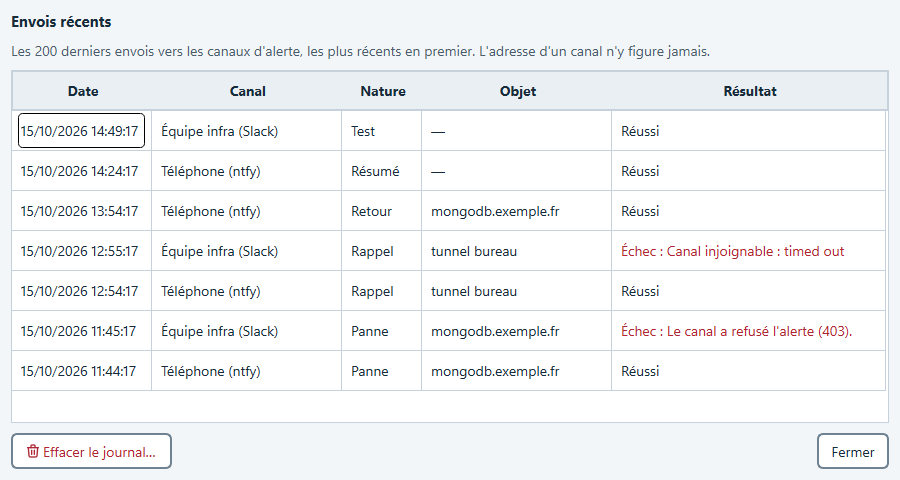
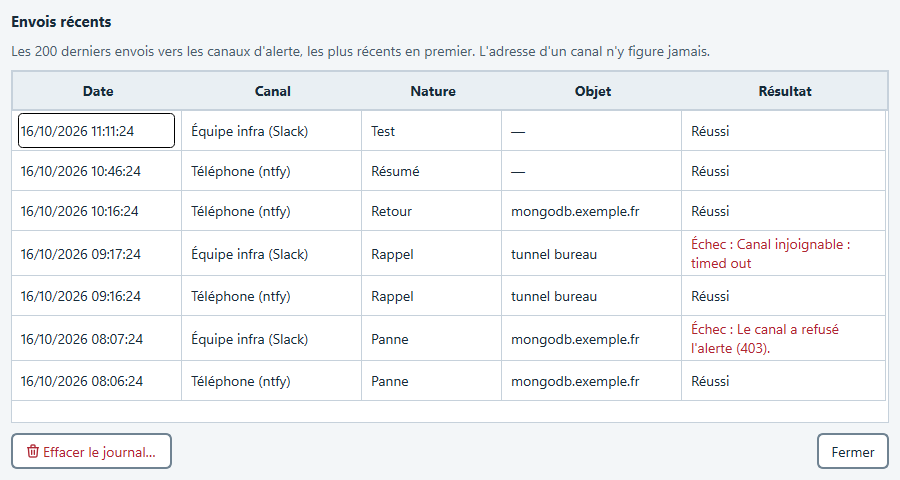
P37: écarts du juge (colonne Incidents et date des envois à leur largeur, aide de diagnostic, arrondi du rapport, doc de P34, terme allemand)

diff --git a/src/cma/core/slo_report.py b/src/cma/core/slo_report.py
@@ -11,6 +11,7 @@ import csv
 import html
 import io
 import json
+import math
 from datetime import UTC, datetime, timedelta
 from typing import Any
 
@@ -22,7 +23,8 @@ from cma.i18n import get_language, tr
 
 def _gap(value: float | None) -> str:
     """Écart à l'objectif en points : « +0.12 » ou « -0.40 » ; « — » sans objectif ou sans relevé."""
-    return "—" if value is None else f"{value:+.2f}"
+    # Vers le bas, comme le taux : un écart de -0.004 point s'écrit « -0.01 », jamais « -0.00 » (objectif manqué).
+    return "—" if value is None else f"{math.floor(value * 100 + 1e-9) / 100:+.2f}"
 
 
 def _uptime(row: MonthRow) -> str:
@@ -68,7 +70,7 @@ def report_lines(report: MonthReport) -> list[str]:
     incidents, nom). Liste vide si rien n'a été relevé."""
     lines: list[str] = []
     for row in report.rows:
-        uptime = f"{row.uptime:6.2f} %" if row.uptime is not None else "     — "
+        uptime = f"{math.floor(row.uptime * 100 + 1e-9) / 100:6.2f} %" if row.uptime is not None else "     — "
         mean = f"{row.stats.mean_ms:5.0f} ms" if row.stats.mean_ms is not None else "        "
         target = target_text(row.target).rjust(8)
         lines.append(f"{uptime}  {target}  {_gap(row.gap):>6}  {mean}  {row.incidents:>3}  {row.label}")

diff --git a/src/cma/i18n_de.py b/src/cma/i18n_de.py
@@ -1679,7 +1679,7 @@ CATALOG: dict[str, str] = {
     "Supprimer sur le serveur ?": "Auf dem Server löschen?",
     "Supprimer…": "Löschen…",
     "supprimé": "entfernt",
-    "Sur les 30 derniers jours, CMA prévient une fois quand elle passe dessous, puis quand elle remonte (canaux d'alerte).": "Über die letzten 30 Tage warnt CMA einmal, wenn sie darunter fällt, und dann, wenn sie wieder steigt (Alarmkanäle).",
+    "Sur les 30 derniers jours, CMA prévient une fois quand elle passe dessous, puis quand elle remonte (canaux d'alerte).": "Über die letzten 30 Tage warnt CMA einmal, wenn sie darunter fällt, und dann, wenn sie wieder steigt (Warnkanäle).",
     "Surveillance des tunnels planifiée, même CMA fermé.": "Tunnelüberwachung geplant, auch bei geschlossenem CMA.",
     "Surveiller aussi quand CMA est fermé (tâche planifiée, toutes les 15 minutes)": "Auch bei geschlossenem CMA überwachen (geplante Aufgabe, alle 15 Minuten)",
     "Surveiller les tunnels du compte et prévenir s'ils tombent": "Tunnel des Kontos überwachen und bei Ausfall warnen",

diff --git a/src/cma/ui/views/cloud/availability.py b/src/cma/ui/views/cloud/availability.py
@@ -18,6 +18,7 @@ from PySide6.QtWidgets import (
     QDoubleSpinBox,
     QFileDialog,
     QHBoxLayout,
+    QHeaderView,
     QSplitter,
     QTableWidgetItem,
     QToolTip,
@@ -291,7 +292,8 @@ class AvailabilityDialog(QDialog):
         )
         for column, width in enumerate((300, 90, 100, 100, 120)):
             self.table.horizontalHeader().resizeSection(column, width)
-        self.table.horizontalHeader().resizeSection(5, 110)
+        # À la largeur de son en-tête et de son contenu : « Incidentes (30 d) » (es) ne tient pas dans 110 px.
+        self.table.horizontalHeader().setSectionResizeMode(5, QHeaderView.ResizeMode.ResizeToContents)
         self.table.itemSelectionChanged.connect(self._show_incidents)
         splitter.addWidget(self.table)
         self.incidents = data_table(

diff --git a/tests/unit/test_slo.py b/tests/unit/test_slo.py
@@ -598,3 +598,11 @@ def test_cli_parser_accepts_month():
     args = cli.build_parser().parse_args(["availability", "--month", "2026-10", "--json"])
     assert args.month == "2026-10" and args.json and args.days == 30
     assert cli.build_parser().parse_args(["availability"]).month is None
+
+
+def test_gap_is_rounded_down():
+    """Un objectif manqué de peu ne s'écrit jamais « -0.00 » (on lirait l'objectif tenu)."""
+    from cma.core.slo_report import _gap  # pyright: ignore[reportPrivateUsage]
+
+    assert _gap(-0.004) == "-0.01" and _gap(0.004) == "+0.00" and _gap(None) == "—"
+    assert _gap(100 - 99.9) == "+0.10"  # 0,0999999… en virgule flottante

diff --git a/src/cma/ui/dialogs/sends.py b/src/cma/ui/dialogs/sends.py
@@ -57,8 +57,8 @@ class SendsDialog(QDialog):
             [tr("Date"), tr("Canal"), tr("Nature"), tr("Objet"), tr("Résultat")], tr("Envois récents")
         )
         for column, width in enumerate(
-            (140, 180, 140, 180)
-        ):  # « Nature » : « Zusammenfassung », « Wiederherstellung »
+            (170, 180, 140, 180)
+        ):  # date et heure complètes ; « Nature » : « Zusammenfassung »
             self.table.horizontalHeader().resizeSection(column, width)
         self.table.setWordWrap(True)
         self.table.verticalHeader().setMinimumSectionSize(36)

diff --git a/tests/integration/test_cloudflared_session.py b/tests/integration/test_cloudflared_session.py
@@ -45,7 +45,7 @@ async def wait_for(session, states, timeout=45.0):
         if session.state in states:
             return session.state
         await asyncio.sleep(0.05)
-    journal = " | ".join(line.message for line in session.logs[-6:])
+    journal = " | ".join(line.message for line in list(session.logs)[-6:])
     raise AssertionError(
         f"état {session.state} au lieu de {states} ; message : {session.message} ; journal : {journal}"
     )

diff --git a/docs/PLAN.md b/docs/PLAN.md
@@ -1,7 +1,7 @@
 # Plan du projet
 
-État au 2026-10-15, version **2.13.0** (P29 à P32) ; P23 à P28 réalisés (2.12 : jours locaux, maintenance, rappels,
-résumé hebdomadaire, pannes dans l'icône, accessibilité au clavier), vérifiés par deux juges. Ce document dit où en est CMA et ce qui vient ensuite. Il remplace les
+État au 2026-10-16, version **2.13.0** publiée ; P33 à P36 réalisés (2.14 : objectifs de disponibilité,
+surveillance de plusieurs comptes, tuile Disponibilité, traductions et stabilité), en cours de validation (P37). Ce document dit où en est CMA et ce qui vient ensuite. Il remplace les
 anciens plans, qui ont tous été appliqués. L'historique des étapes est dans [CLAUDE.md](../CLAUDE.md) et
 [CHANGELOG.md](../CHANGELOG.md).
 
@@ -29,8 +29,8 @@ anciens plans, qui ont tous été appliqués. L'historique des étapes est dans 
 
 ### Qualité
 
-- 612 tests (unitaires, intégration avec un faux cloudflared et un serveur SSH en mémoire, interface
-  pytest-qt). Couverture : 94 % sur `cma.core` (seuil 90 %), 90 % au total (seuil 80 %). De 60 à 130 s en
+- 761 tests (unitaires, intégration avec un faux cloudflared et un serveur SSH en mémoire, interface
+  pytest-qt). Couverture : 94 % sur `cma.core` (seuil 90 %), 91 % au total (seuil 80 %). De 60 à 130 s en
   parallèle (`pytest -n auto`) selon la charge du poste.
 - CI à chaque push : lint, typage Windows et Linux, tests sous Windows et Linux (et macOS, non bloquant), vrai
   cloudflared, audit des dépendances, scripts serveur sur trois distributions, temps de démarrage, captures à
@@ -733,6 +733,10 @@ Statut : EN COURS
 
 ### Dette technique à surveiller
 
+- Surveillance de plusieurs comptes : un compte vu par deux jetons n'est relevé qu'une fois (jeton de la
+  surveillance d'abord) ; si ce jeton est refusé, le jeton actif n'est pas essayé à sa place (relevé à 2026-10-16 par
+  le juge). Un repli sur le jeton suivant rendrait la surveillance plus robuste.
+- Les messages d'erreur du journal des envois sont enregistrés en français et ne sont pas retraduits à l'affichage.
 - (Archivé le 2026-10-14 : résolu par P23.) Disponibilité : le journal agrégeait les relevés par jour UTC
   (`AvailabilityLog`), alors que le graphique et les
   incidents s'affichent en heure locale. Un incident vers minuit (heure de Paris) peut colorer la barre de la veille.

diff --git a/CHANGELOG.md b/CHANGELOG.md
@@ -22,8 +22,9 @@ Format inspiré de [Keep a Changelog](https://keepachangelog.com/fr/1.1.0/), num
   A) ») dans les notifications, les alertes, le menu « Pannes » et le journal de disponibilité. Un jeton refusé ne
   bloque pas les autres : `cma tunnels` le signale sur la sortie d'erreur (code 1 si rien d'autre ne va mal) et ajoute
   le champ `account` à sa sortie `--json`. Pour surveiller deux comptes d'un même jeton, l'enregistrer deux fois.
-  Limites : **Ouvrir** et **Diagnostiquer…** sur un objet d'un autre compte mènent au compte affiché ; la carte « Santé
-  du compte » ne nomme le compte que pour une panne unique. Voir l'ADR 0003.
+  Limites : **Ouvrir** (sous-menu « Pannes ») sur un objet d'un autre compte mène au compte affiché, et la
+  notification d'une panne d'un autre compte ne propose pas « Diagnostiquer… » ; la carte « Santé du compte » ne nomme
+  le compte que pour une panne unique. Voir l'ADR 0003.
 - **Tuile « Disponibilité » sur la page Sessions** : taux des 7 derniers jours, incidents et objet le moins disponible ;
   **Détail** ouvre la boîte Disponibilité sur cet objet. Elle reste cachée tant que rien n'a été relevé. La carte
   « Santé du compte » a de même un bouton **Disponibilité** qui ouvre la boîte sur le premier objet en panne.

diff --git a/CLAUDE.md b/CLAUDE.md
@@ -266,7 +266,8 @@ Tout ce qui a été retiré reste lisible dans l'historique git (`git log --diff
   gardent leur forme (identifiants uniques chez Cloudflare), donc journal, sourdines, maintenances et `alert_state.json`
   n'ont rien à migrer ; seul le libellé reçoit « (Compte A) » dès que deux comptes sont surveillés. Un jeton en échec est
   journalisé (`WatchFailure`) sans arrêter les autres, et le relevé incomplet (`complete=False`) ne clôt aucun incident.
-  Limites connues : « Ouvrir » et « Diagnostiquer… » sur un objet d'un autre compte ouvrent le compte affiché, et la carte
+  Limites connues : « Ouvrir » sur un objet d'un autre compte ouvre le compte affiché ; aucune action « Diagnostiquer… »
+  n'est proposée pour un autre compte (`monitor.py`) ; la carte
   « Santé du compte » ne nomme le compte que pour une panne unique. Les tests de durée utilisent `delay` du faux serveur
   (`two_accounts`).
 - **Verrou des règles d'ingress** (`cfapi._INGRESS_LOCK`, P36) : toute modification de la configuration d'un tunnel

diff --git a/docs/GUIDE.md b/docs/GUIDE.md
@@ -312,8 +312,9 @@ surveillance, s'il est choisi, passe d'abord).
 - Les objectifs, sourdines et maintenances restent par tunnel et par nom d'hôte : rien à refaire en activant ou en
   coupant le réglage.
 
-Limites : **Ouvrir** (sous-menu **Pannes**) et **Diagnostiquer…** sur un objet d'un autre compte mènent au compte
-affiché, pas au sien : choisissez d'abord son jeton dans la vue Cloudflare ; la carte « Santé du compte » ne nomme le
+Limites : **Ouvrir** (sous-menu **Pannes**) sur un objet d'un autre compte mène au compte affiché, pas au sien :
+choisissez d'abord son jeton dans la vue Cloudflare ; la notification d'une panne d'un autre compte ne propose pas
+**Diagnostiquer…** ; la carte « Santé du compte » ne nomme le
 compte que pour une panne unique (avec plusieurs pannes, elle les résume).
 
 Attention : **tous les jetons du coffre servent alors à la surveillance**, tâche planifiée comprise. Pour un compte
